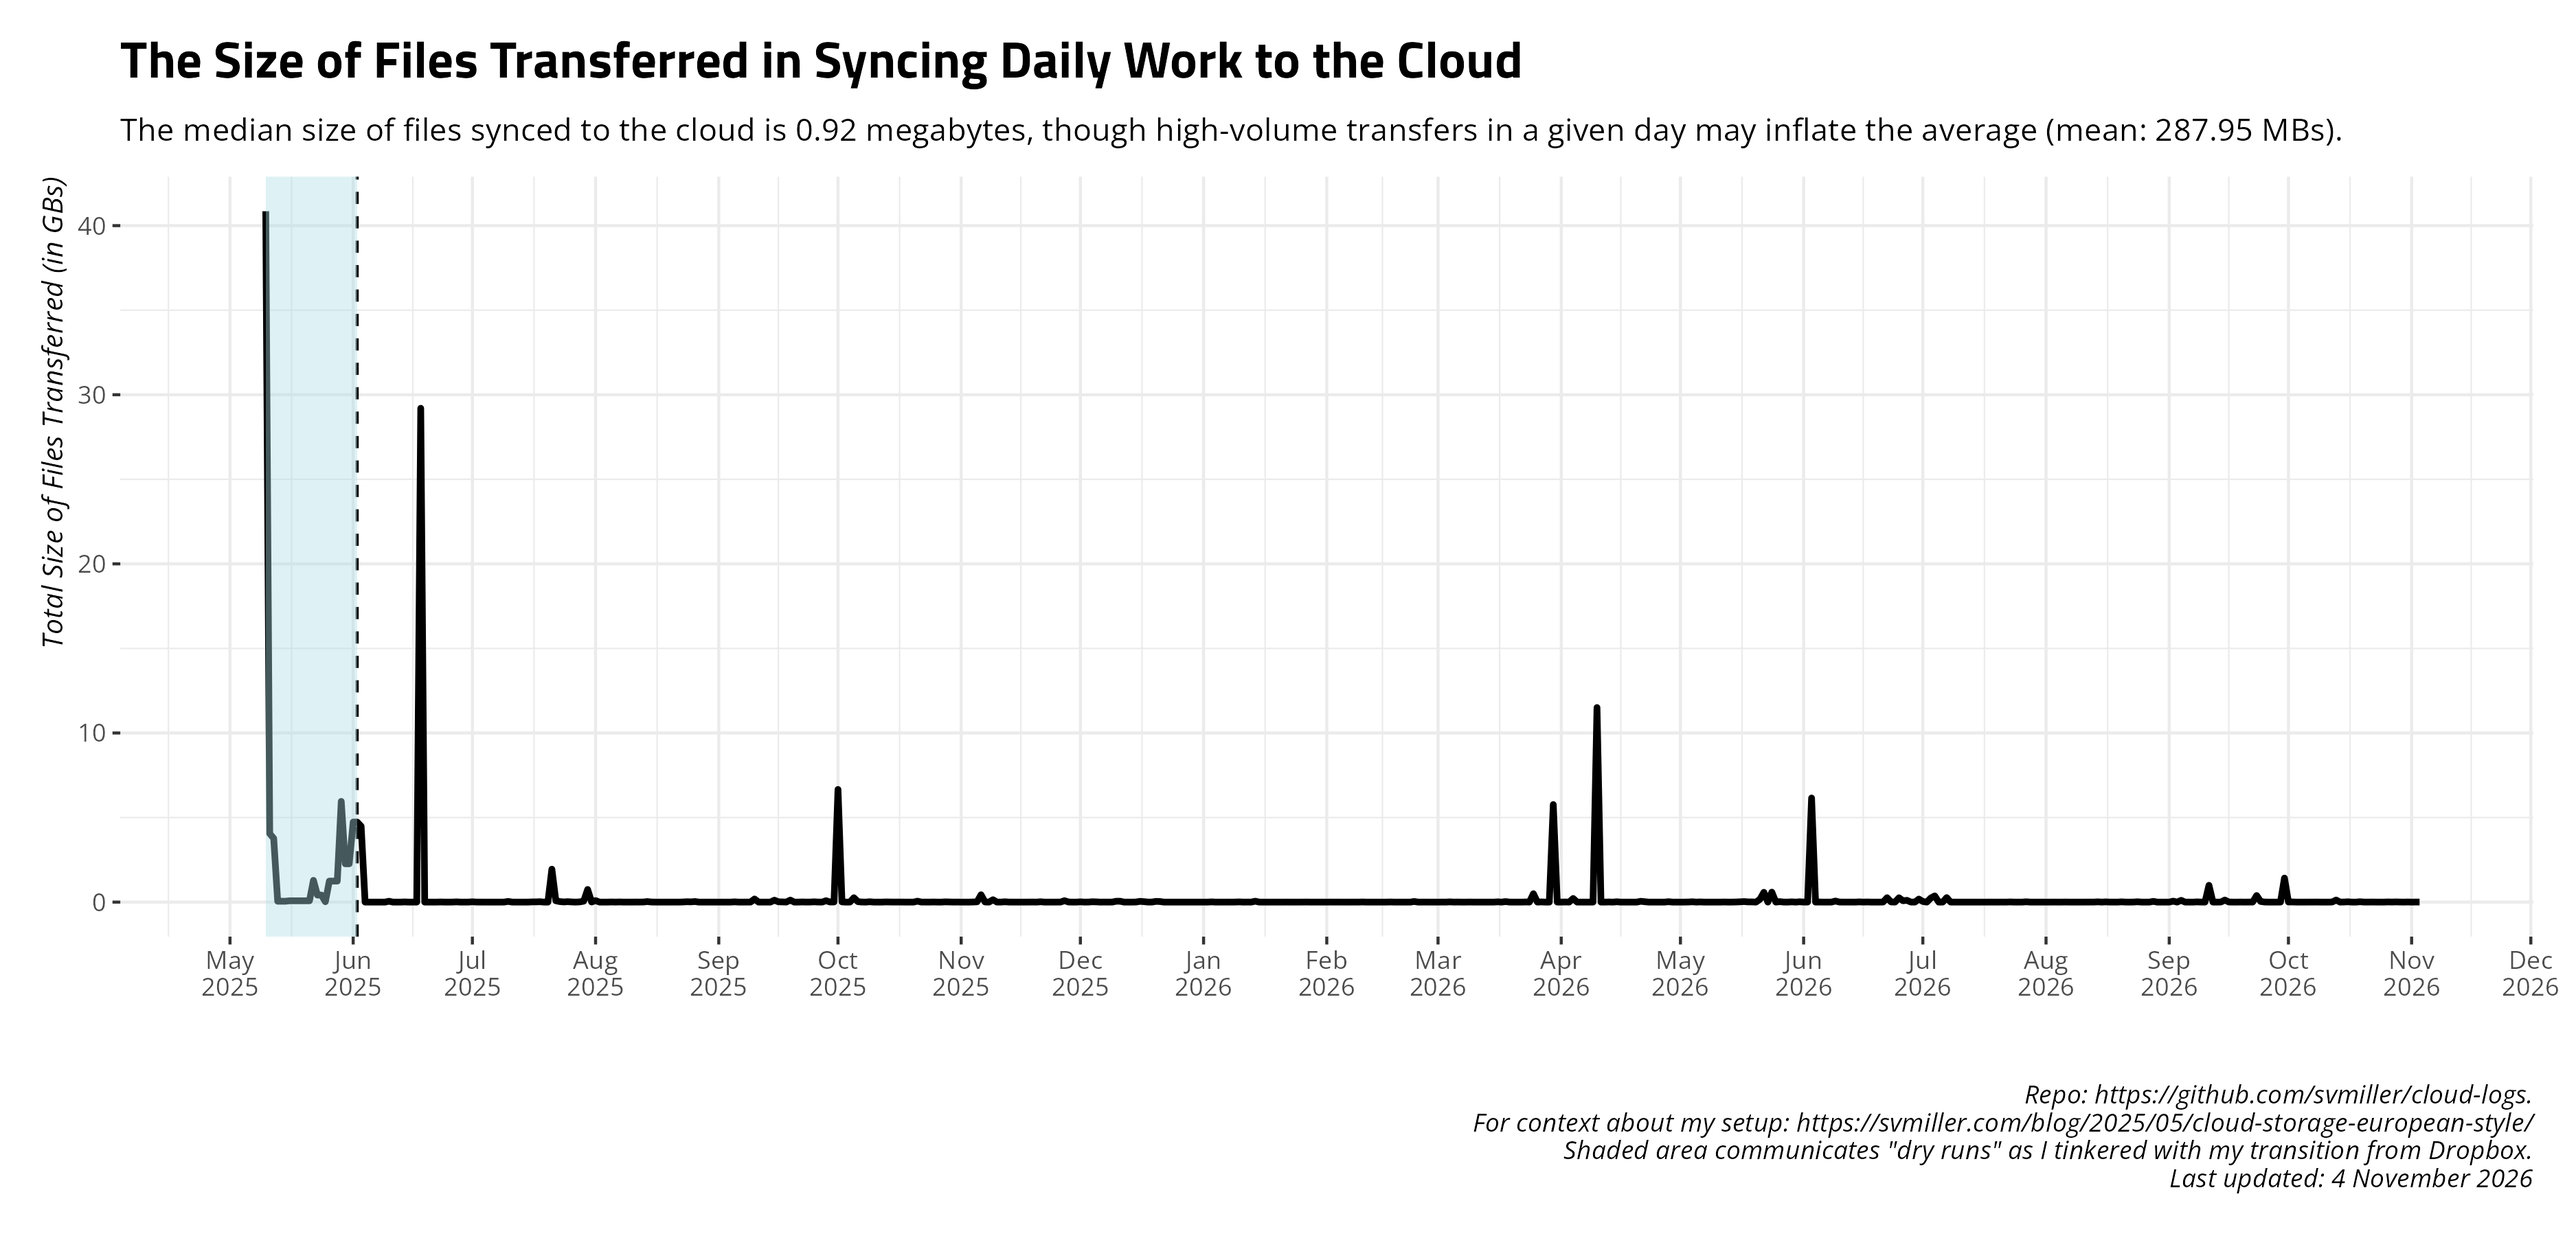
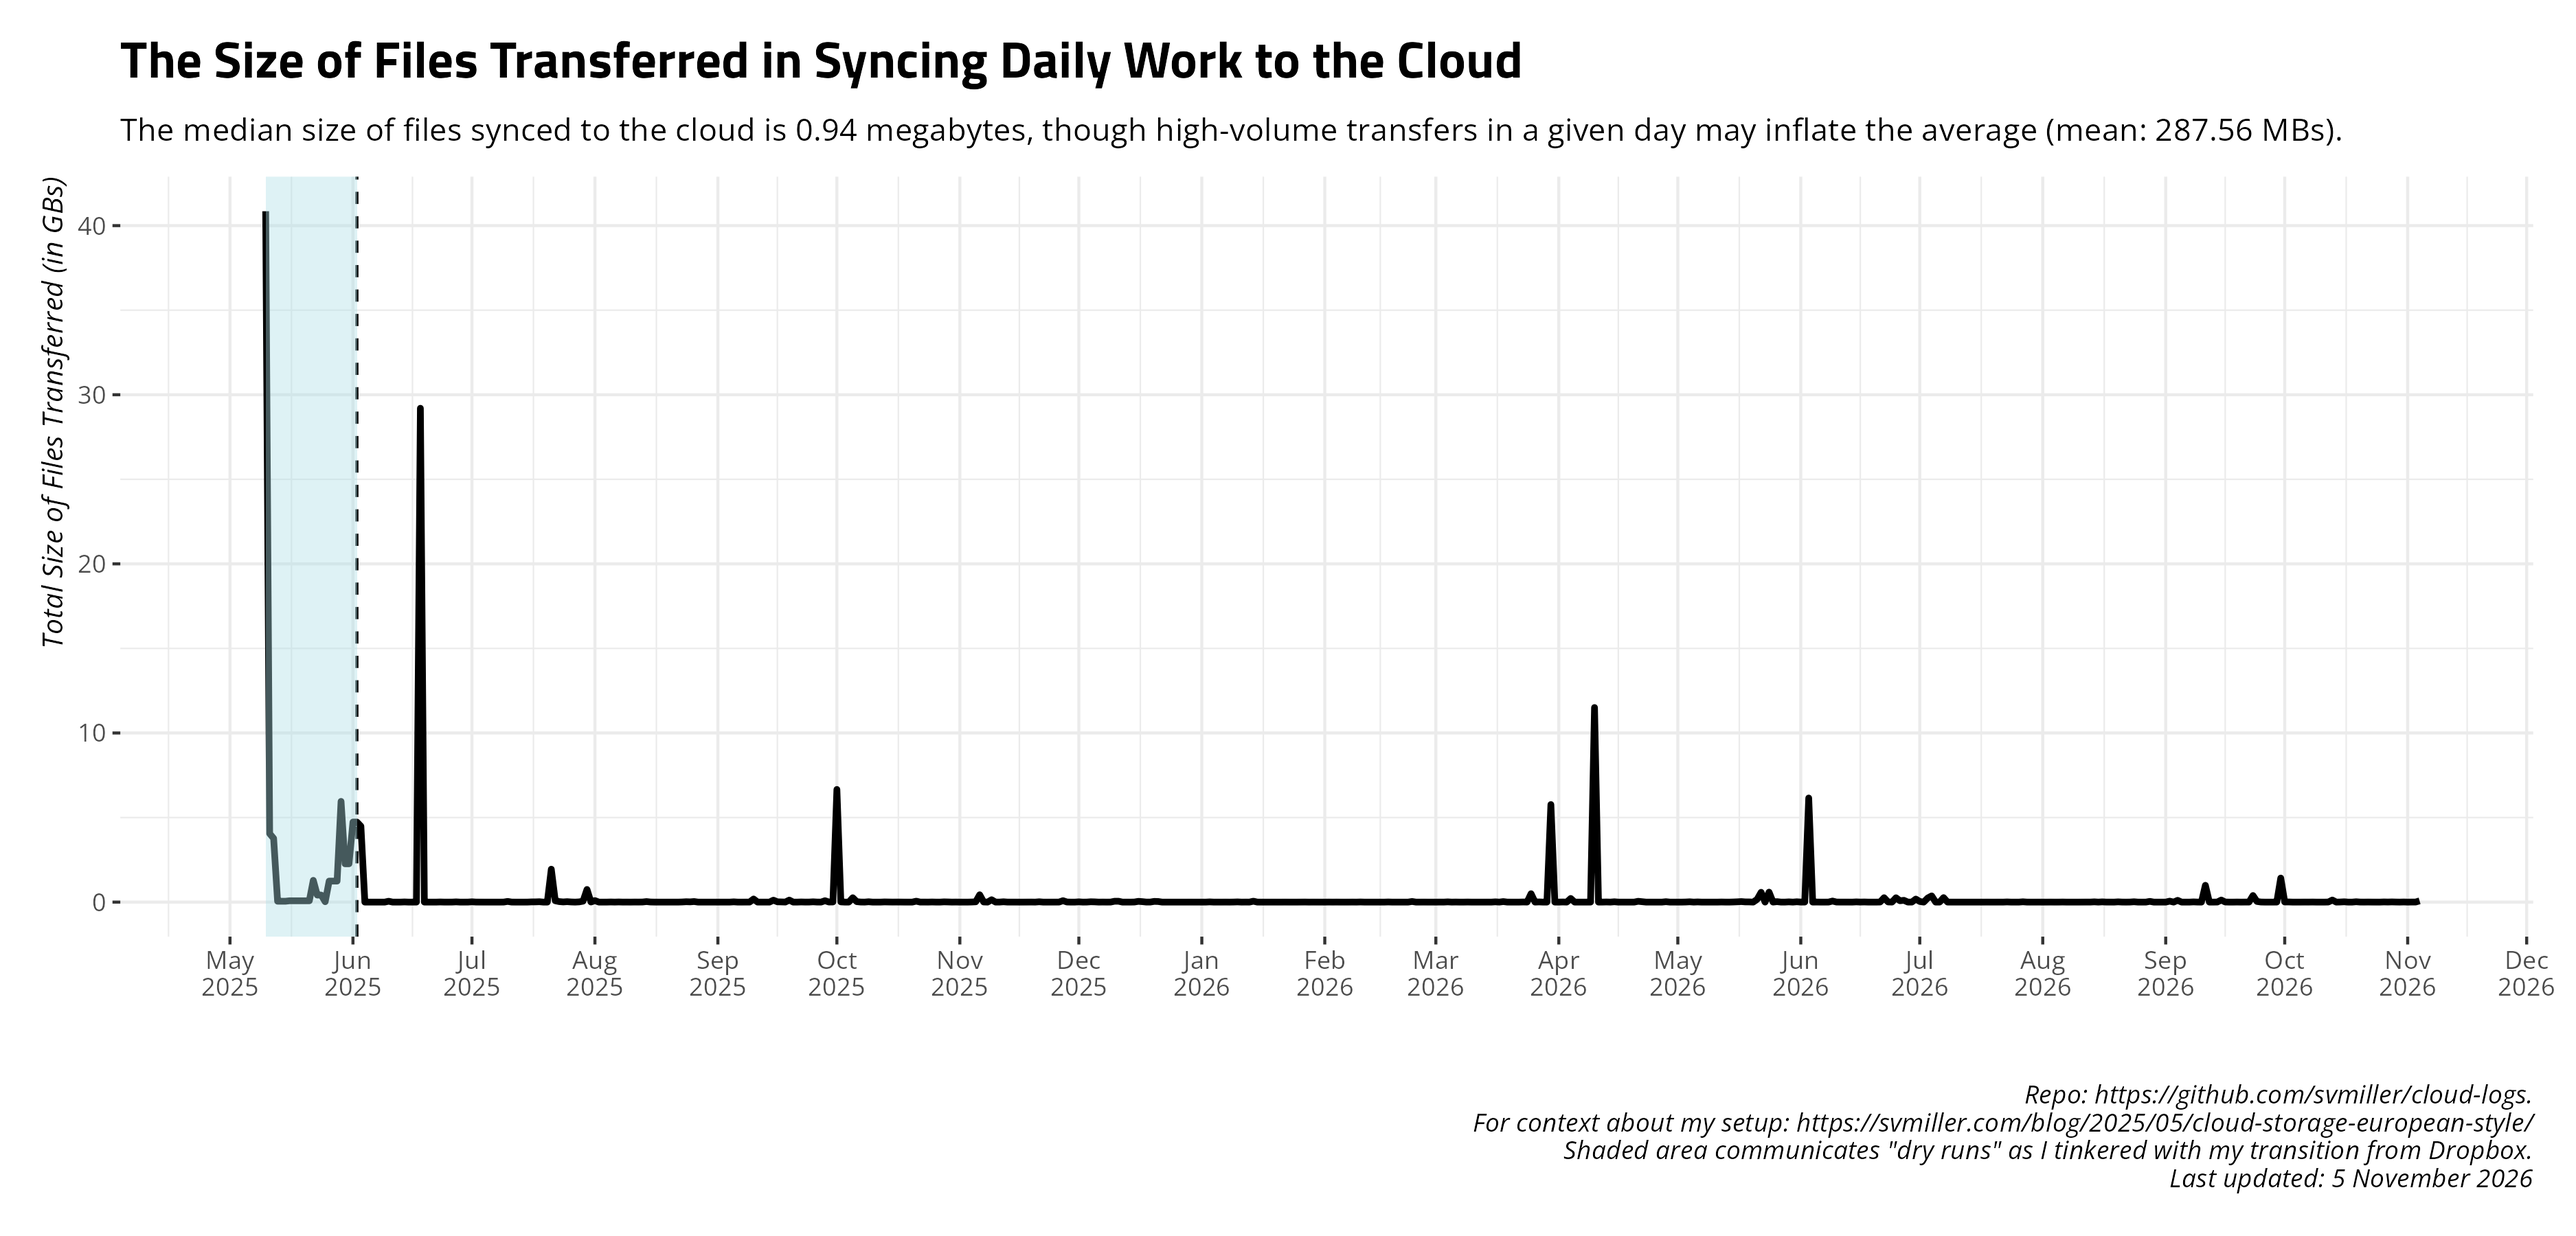
Date: 2026-11-05 09:00:37. Hi mom!

diff --git a/README.md b/README.md
@@ -27,17 +27,17 @@ and uploads to Github.
     #> # A tibble: 14 × 4
     #>    date       ftransfer stransfer   elapsed 
     #>    <date>         <dbl> <chr>       <chr>   
-    #>  1 2026-10-21        32 1.412 MiB   4m38.6s 
-    #>  2 2026-10-22        78 3.980 MiB   6m15.1s 
-    #>  3 2026-10-23       149 1.495 MiB   4m25.2s 
-    #>  4 2026-10-24        23 460.326 KiB 4m33.8s 
-    #>  5 2026-10-25        21 119.845 KiB 18m36.7s
-    #>  6 2026-10-26        94 9.100 MiB   4m7.9s  
-    #>  7 2026-10-27         2 3.880 MiB   4m28.2s 
-    #>  8 2026-10-28       405 10.600 MiB  4m36.4s 
-    #>  9 2026-10-29       158 4.397 MiB   4m14.9s 
-    #> 10 2026-10-30        75 521.424 KiB 4m15.4s 
-    #> 11 2026-10-31       400 6.702 MiB   4m23.4s 
-    #> 12 2026-11-01        48 212.194 KiB 5m13.7s 
-    #> 13 2026-11-02       491 3.624 MiB   4m43.8s 
-    #> 14 2026-11-03        89 3.941 MiB   4m23.4s
+    #>  1 2026-10-22        78 3.980 MiB   6m15.1s 
+    #>  2 2026-10-23       149 1.495 MiB   4m25.2s 
+    #>  3 2026-10-24        23 460.326 KiB 4m33.8s 
+    #>  4 2026-10-25        21 119.845 KiB 18m36.7s
+    #>  5 2026-10-26        94 9.100 MiB   4m7.9s  
+    #>  6 2026-10-27         2 3.880 MiB   4m28.2s 
+    #>  7 2026-10-28       405 10.600 MiB  4m36.4s 
+    #>  8 2026-10-29       158 4.397 MiB   4m14.9s 
+    #>  9 2026-10-30        75 521.424 KiB 4m15.4s 
+    #> 10 2026-10-31       400 6.702 MiB   4m23.4s 
+    #> 11 2026-11-01        48 212.194 KiB 5m13.7s 
+    #> 12 2026-11-02       491 3.624 MiB   4m43.8s 
+    #> 13 2026-11-03        89 3.941 MiB   4m23.4s 
+    #> 14 2026-11-04       380 74.847 MiB  4m46.3s
